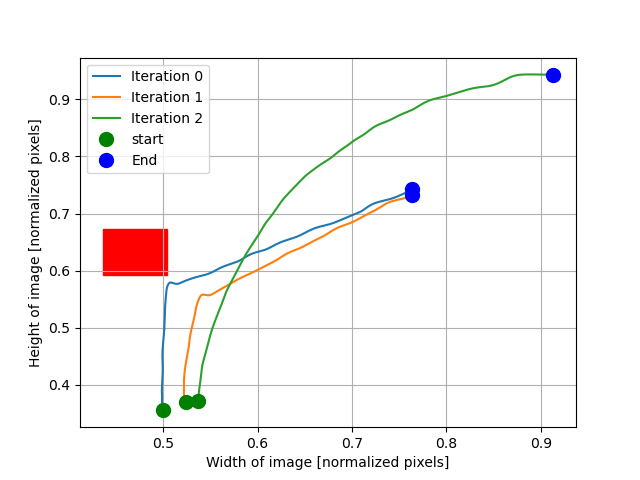
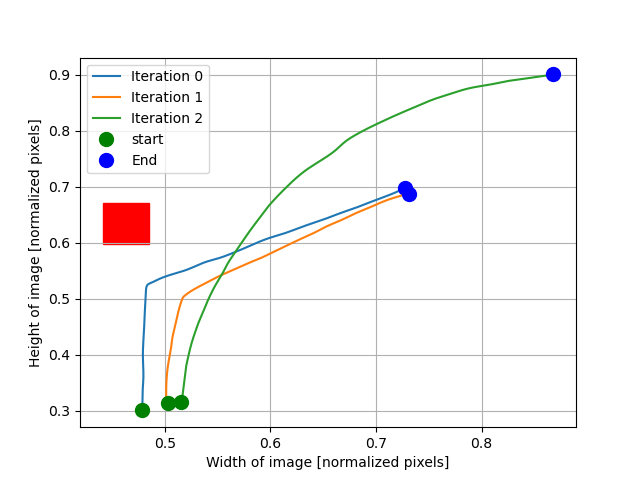
readme update

diff --git a/data_analyse/plot_trajectory.py b/data_analyse/plot_trajectory.py
@@ -200,8 +200,8 @@ def predict_trajectory(name:str, obs:tuple, iterations:int, save_dir:str):
                 line = open(label).readlines()
                 if len(line) == 1:
                     line = [float(l) for l in line[0].replace('\n','').split(' ')]
-                    cx = line[1] + line[3] # line[1] + (line[3] - line[1])
-                    cy = line[2] + line[4] # line[2] + (line[4] - line[2])
+                    cx = line[1]
+                    cy = line[2] 
                     data[str(i)].append((cx, cy))
                 elif len(line) > 1:
                     best_acc = 0.0
@@ -210,8 +210,8 @@ def predict_trajectory(name:str, obs:tuple, iterations:int, save_dir:str):
                         l = [float(l) for l in l.replace('\n','').split(' ')]
                         if l[5] > best_acc:
                             best_acc = l[5]
-                            cx = l[1] + l[3]
-                            cy = l[2] + l[4]
+                            cx = l[1]
+                            cy = l[2]
                     data[str(i)].append((cx, cy))
                 else:
                     raise ValueError(f'Line is unknown, got {line}')
@@ -224,9 +224,18 @@ def predict_trajectory(name:str, obs:tuple, iterations:int, save_dir:str):
         label, = plt.plot(xs, ys)
         legends.append(label)
         names.append(f'Iteration {i}')
-
         start_dot, = plt.plot(d[0, 0], d[0, 1], 'go', markersize=10) 
         end_dot, = plt.plot(d[-1, 0], d[-1, 1], 'bo', markersize=10)
+
+        filename = f'{save_dir}/{name}_{i+1}.mp4'
+        cap = cv2.VideoCapture(filename)
+        ret, frame = cap.read()
+        im = frame.copy()
+        h, w = im.shape[:2]
+        for x, y in zip(xs, ys):
+            x, y = int(x * w), int(y * h)
+            cv2.circle(im, (x, y), 3, (0,0,255), cv2.FILLED)
+        cv2.imwrite(f'{save_dir}/{name}_{i+1}.png', im)
     
     legends.extend([start_dot, end_dot])
     names.extend(['start', 'End'])
@@ -248,6 +257,7 @@ def predict_trajectory(name:str, obs:tuple, iterations:int, save_dir:str):
 def get_obstacle(filename:str):
     cap = cv2.VideoCapture(filename)
     ret, frame = cap.read()
+    image = frame.copy()
 
     bbox_widget = BBoxWidget(image=frame)
     while True:
@@ -266,20 +276,20 @@ def get_obstacle(filename:str):
     ymax = ymax/im_h
 
     cv2.destroyAllWindows()
-    return (xmin, ymin, xmax, ymax)
+    return (xmin, ymin, xmax, ymax), image
 
 
 if __name__ == '__main__':
     print(__doc__)
     start_time = time.time()
 
-    obs = get_obstacle('data_analyse/data/test_wall_right/wall_right_1.mp4')
+    obs, image = get_obstacle('data_analyse/data/test_box_left/box_left_1.mp4')
 
     data = predict_trajectory(
-        name='wall_right',
+        name='box_left',
         obs=obs,
-        iterations=4,
-        save_dir='data_analyse/data/test_wall_right'
+        iterations=3,
+        save_dir='data_analyse/data/test_box_left'
     )
 
     end_time = time.time() - start_time

diff --git a/data_analyse/README.md b/data_analyse/README.md
@@ -7,6 +7,7 @@
 | Iteration 1 | Iteration 2 | Iteration 3 |
 |:-----------:|:-----------:|:-----------:|
 | ![](assets/test_box_left/01.gif) | ![](assets/test_box_left/02.gif) | ![](assets/test_box_left/03.gif) |
+| ![](assets/test_box_left/01.png) | ![](assets/test_box_left/02.png) | ![](assets/test_box_left/03.png) |
 
 | Obstacle Collisions | Obstacle Avoidance ICO | Trajectory |
 |:-------------------:|:----------------------:|:----------:|
@@ -17,6 +18,7 @@
 | Iteration 1 | Iteration 2 | Iteration 3 |
 |:-----------:|:-----------:|:-----------:|
 | ![](assets/test_box_right/01.gif) | ![](assets/test_box_right/02.gif) | ![](assets/test_box_right/03.gif) |
+| ![](assets/test_box_right/01.png) | ![](assets/test_box_right/02.png) | ![](assets/test_box_right/03.png) |
 
 | Obstacle Collisions | Obstacle Avoidance ICO | Trajectory |
 |:-------------------:|:----------------------:|:----------:|
@@ -27,6 +29,7 @@
 | Iteration 1 | Iteration 2 | Iteration 3 |
 |:-----------:|:-----------:|:-----------:|
 | ![](assets/test_wall_left/01.gif) | ![](assets/test_wall_left/02.gif) | ![](assets/test_wall_left/03.gif) |
+| ![](assets/test_wall_left/01.png) | ![](assets/test_wall_left/02.png) | ![](assets/test_wall_left/03.png) |
 
 | Obstacle Collisions | Obstacle Avoidance ICO | Trajectory |
 |:-------------------:|:----------------------:|:----------:|
@@ -36,7 +39,8 @@
 
 | Iteration 1 | Iteration 2 | Iteration 3 | Iteration 4 |
 |:-----------:|:-----------:|:-----------:|:-----------:|
-| ![](assets/test_wall_right/01.gif) | ![](assets/test_wall_right/02.gif) | ![](assets/test_wall_right/03.gif) | ![](assets/test_wall_right/03.gif) |
+| ![](assets/test_wall_right/01.gif) | ![](assets/test_wall_right/02.gif) | ![](assets/test_wall_right/03.gif) | ![](assets/test_wall_right/04.gif) |
+| ![](assets/test_wall_right/01.png) | ![](assets/test_wall_right/02.png) | ![](assets/test_wall_right/03.png) | ![](assets/test_wall_right/04.png) |
 
 | Obstacle Collisions | Obstacle Avoidance ICO | Trajectory |
 |:-------------------:|:----------------------:|:----------:|
@@ -49,6 +53,7 @@
 | Iteration 1 | Iteration 2 | Iteration 3 |
 |:-----------:|:-----------:|:-----------:|
 | ![](assets/test_human_left/01.gif) | ![](assets/test_human_left/02.gif) | ![](assets/test_human_left/03.gif) |
+| ![](assets/test_human_left/01.png) | ![](assets/test_human_left/02.png) | ![](assets/test_human_left/03.png) |
 
 | Reflective Signal | Following ICO | Trajectory |
 |:-------------------:|:----------------------:|:----------:|
@@ -59,6 +64,7 @@
 | Iteration 1 | Iteration 2 | Iteration 3 |
 |:-----------:|:-----------:|:-----------:|
 | ![](assets/test_human_right/01.gif) | ![](assets/test_human_right/02.gif) | ![](assets/test_human_right/03.gif) |
+| ![](assets/test_human_right/01.png) | ![](assets/test_human_right/02.png) | ![](assets/test_human_right/03.png) |
 
 | Reflective Signal | Following ICO | Trajectory |
 |:-------------------:|:----------------------:|:----------:|
